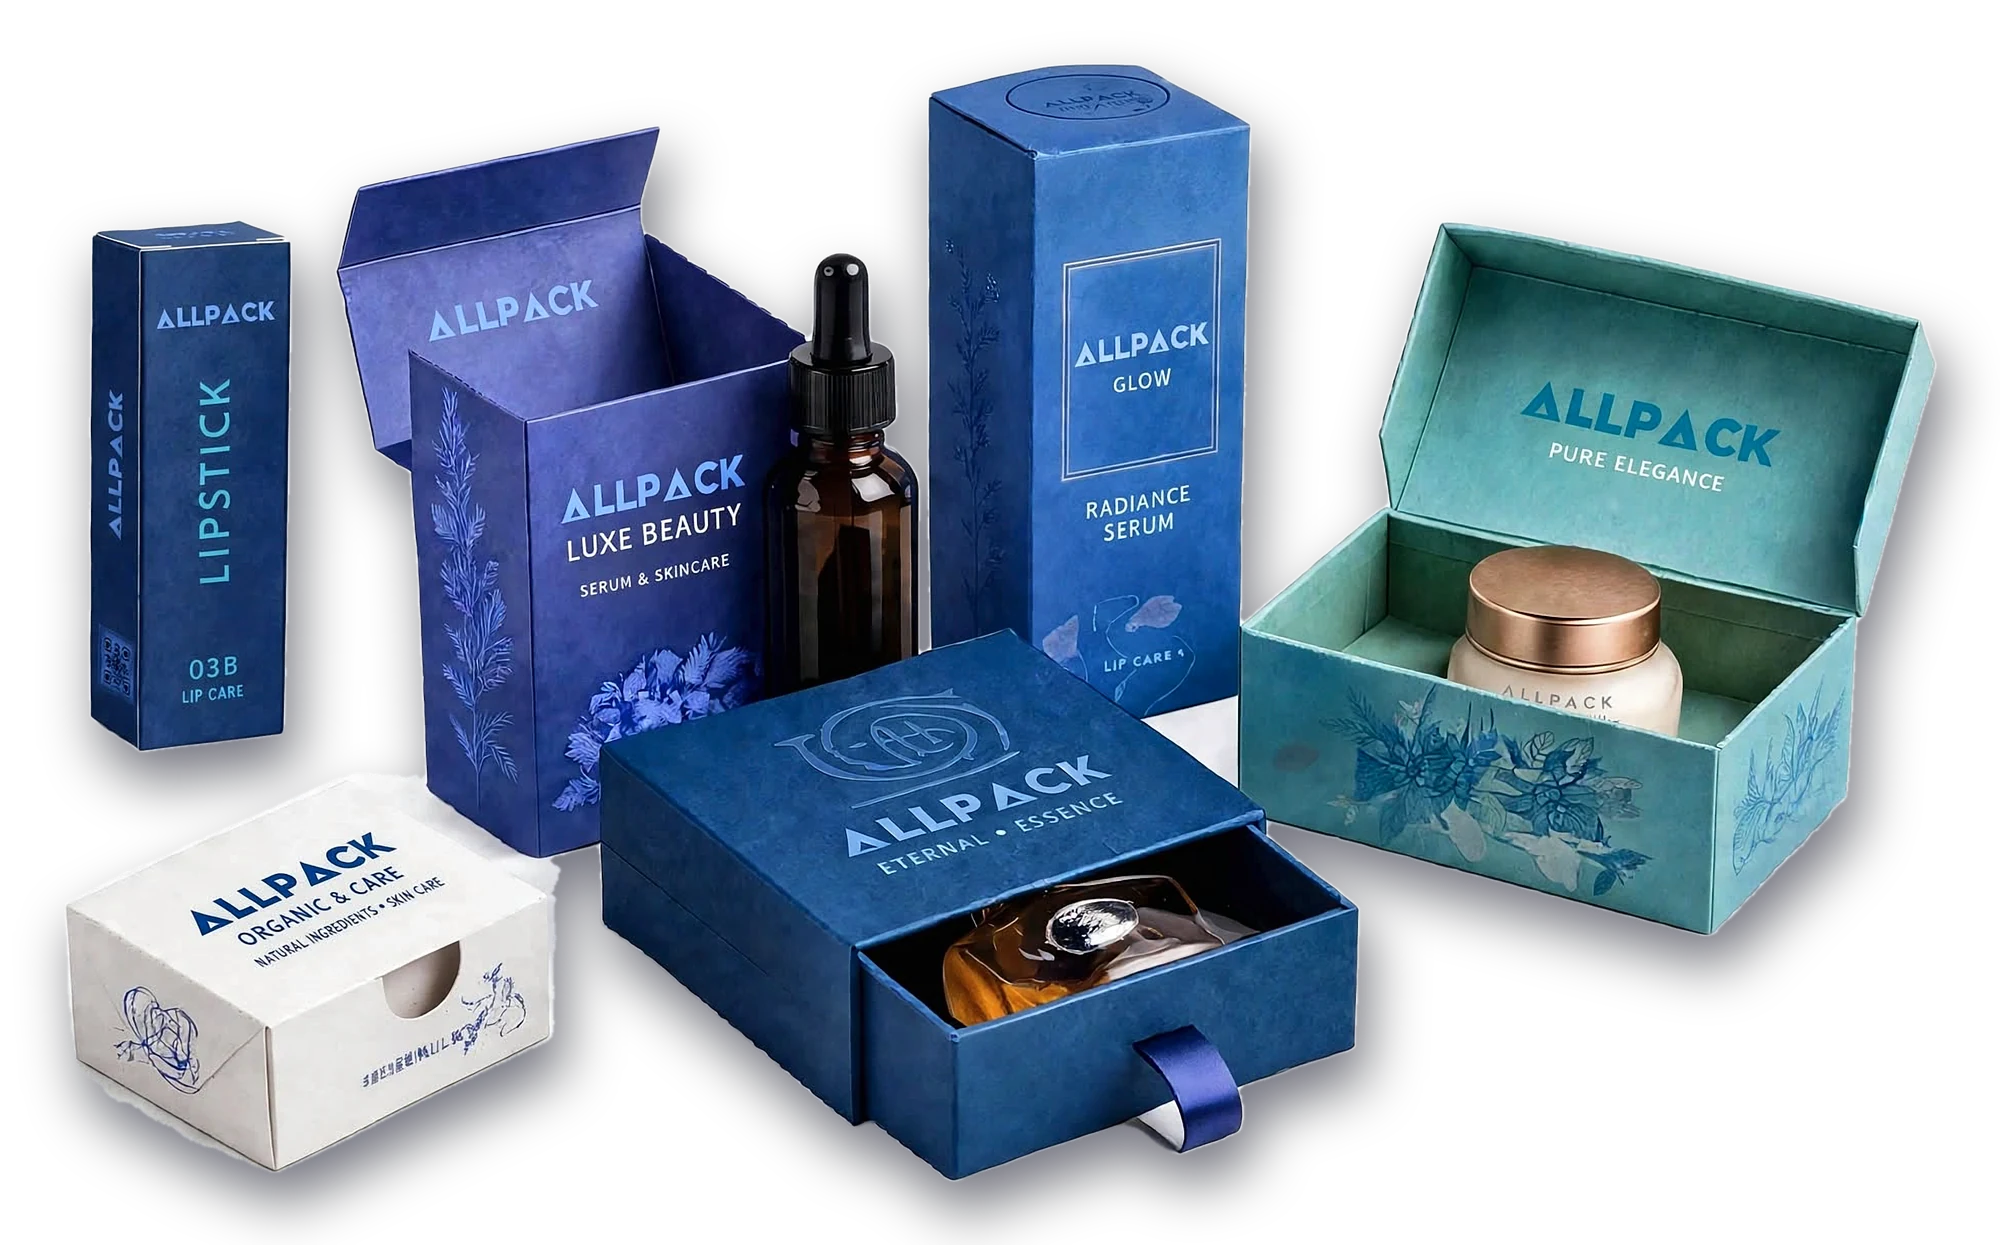
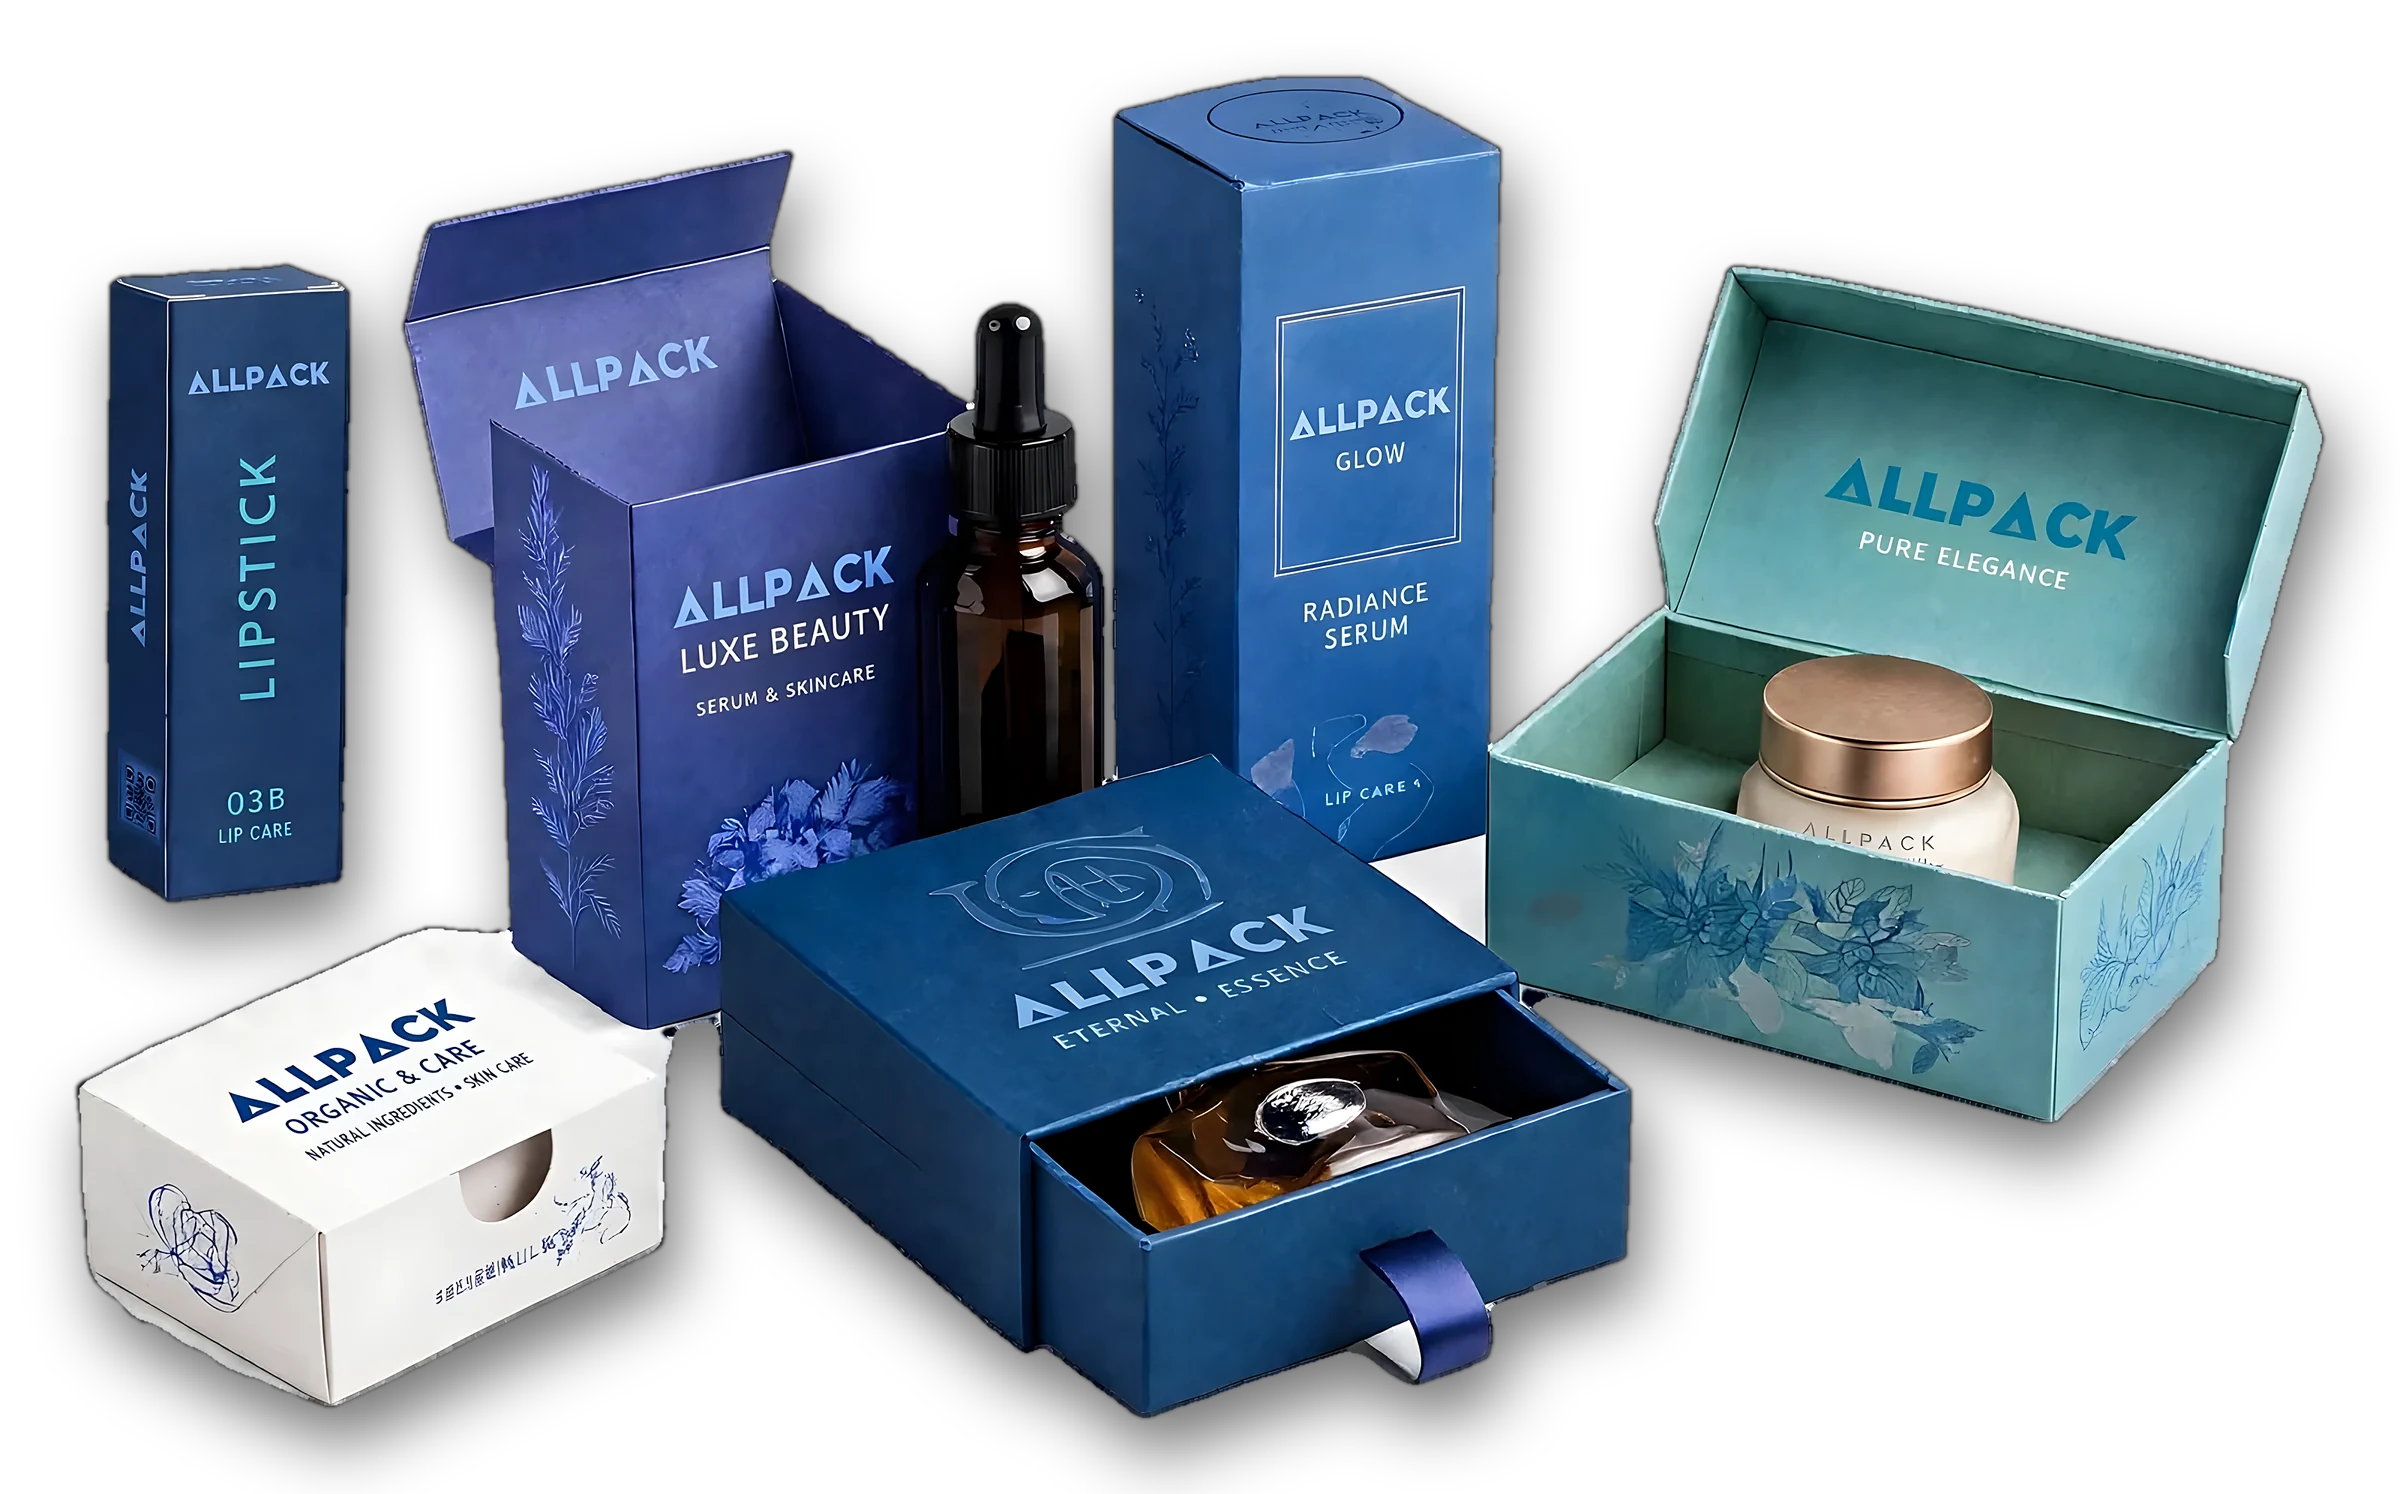
Hero: sharper packaging image (Real-ESRGAN upscale from clean source, white cut-out fringe removed, smoother edges, 2400px)
Claude-Session: https://claude.ai/code/session_01HC6efxwRM48T1e4pmkNnZg

diff --git a/src/components/HeroVisual.tsx b/src/components/HeroVisual.tsx
@@ -37,7 +37,7 @@ export function HeroVisual() {
         <div className="float relative">
           <img
             src="/renders/packaging-range.webp" alt="ALL PACK printed cosmetic packaging: lipstick carton, serum boxes, drawer box and rigid gift boxes"
-            width={2000} height={1245} fetchPriority="high" decoding="async" className="relative z-10 w-full"
+            width={2400} height={1494} fetchPriority="high" decoding="async" className="relative z-10 w-full"
           />
           <ul aria-label="Finishes and structures shown" className="pointer-events-none absolute inset-0 z-20 hidden min-[1150px]:block">
             {NOTES.map((n, i) => {
